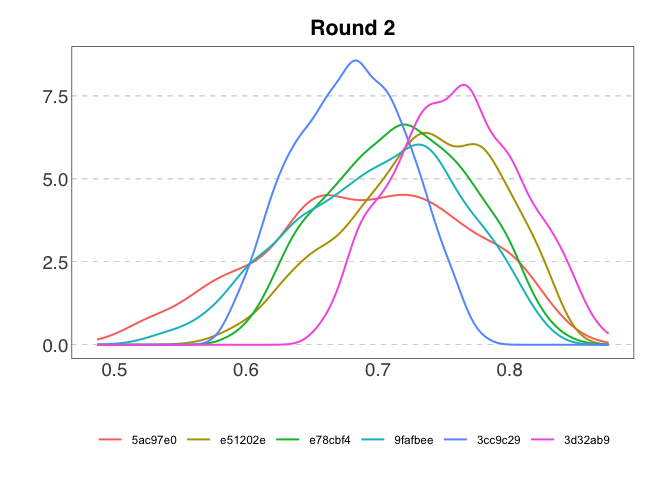
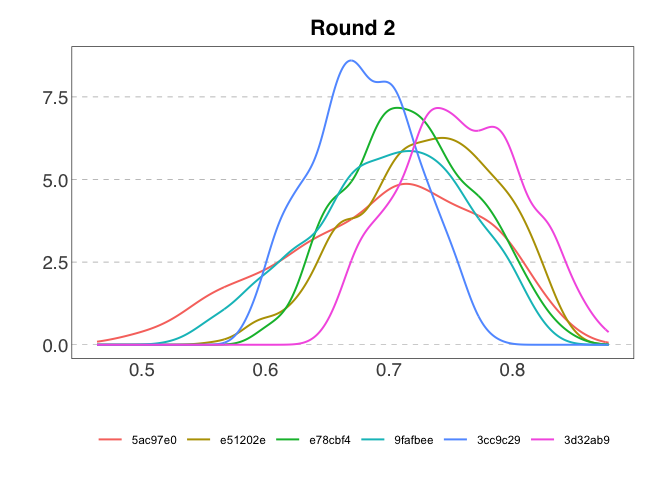
Update readme.

diff --git a/README.md b/README.md
@@ -213,8 +213,8 @@ summary(samp_cont)
 #>   Var      Min     Q1 Median   Mean     Q3    Max
 #>   <chr>  <dbl>  <dbl>  <dbl>  <dbl>  <dbl>  <dbl>
 #> 1 var1  -4     -2     -1     -1      1      1    
-#> 2 var2  11.0   14.4   16.3   16.3   18.4   22.7  
-#> 3 var3   0.487  0.669  0.716  0.713  0.760  0.875
+#> 2 var2  11.1   14.5   16.3   16.3   18.3   22.6  
+#> 3 var3   0.464  0.670  0.714  0.713  0.758  0.878
 ```
 
 And plotted as violin plots:
@@ -358,16 +358,16 @@ samp_cat_unweighted
 #> # A tibble: 2,400 × 7
 #>    id      option   category_1 category_2 category_3 category_4 category_5
 #>    <chr>   <chr>         <dbl>      <dbl>      <dbl>      <dbl>      <dbl>
-#>  1 5ac97e0 option_1      0.639      0.123    0.0105     0.0466       0.181
-#>  2 5ac97e0 option_1      0.588      0.197    0.0403     0.0326       0.142
-#>  3 5ac97e0 option_1      0.488      0.179    0.0354     0.0251       0.272
-#>  4 5ac97e0 option_1      0.542      0.203    0.00933    0.00597      0.240
-#>  5 5ac97e0 option_1      0.547      0.163    0.00709    0.0279       0.255
-#>  6 5ac97e0 option_1      0.566      0.175    0.0228     0.0369       0.200
-#>  7 5ac97e0 option_1      0.560      0.213    0.00577    0.00551      0.216
-#>  8 5ac97e0 option_1      0.587      0.152    0.0230     0.00935      0.229
-#>  9 5ac97e0 option_1      0.532      0.210    0.0249     0.00925      0.225
-#> 10 5ac97e0 option_1      0.538      0.164    0.0319     0.0209       0.245
+#>  1 5ac97e0 option_1      0.546      0.183    0.0233      0.0368      0.211
+#>  2 5ac97e0 option_1      0.668      0.137    0.0115      0.0177      0.166
+#>  3 5ac97e0 option_1      0.595      0.160    0.0298      0.0102      0.205
+#>  4 5ac97e0 option_1      0.503      0.277    0.00271     0.0124      0.205
+#>  5 5ac97e0 option_1      0.573      0.197    0.0110      0.0210      0.198
+#>  6 5ac97e0 option_1      0.491      0.214    0.0304      0.0619      0.202
+#>  7 5ac97e0 option_1      0.578      0.186    0.0104      0.0281      0.198
+#>  8 5ac97e0 option_1      0.590      0.164    0.0257      0.0100      0.210
+#>  9 5ac97e0 option_1      0.634      0.142    0.0244      0.0413      0.159
+#> 10 5ac97e0 option_1      0.591      0.213    0.0258      0.0222      0.147
 #> # ℹ 2,390 more rows
 
 samp_cat_weighted <- cat_sample_data(my_elic_cat,
@@ -378,16 +378,16 @@ samp_cat_weighted
 #> # A tibble: 1,800 × 7
 #>    id      option   category_1 category_2 category_3 category_4 category_5
 #>    <chr>   <chr>         <dbl>      <dbl>      <dbl>      <dbl>      <dbl>
-#>  1 5ac97e0 option_1     0.0836      0.489      0.181    0.0283       0.217
-#>  2 5ac97e0 option_1     0.124       0.468      0.186    0.0105       0.211
-#>  3 5ac97e0 option_1     0.0548      0.463      0.252    0.0112       0.219
-#>  4 5ac97e0 option_1     0.117       0.557      0.131    0.0268       0.169
-#>  5 5ac97e0 option_1     0.126       0.493      0.179    0.00635      0.196
-#>  6 5ac97e0 option_1     0.101       0.610      0.167    0.0144       0.108
-#>  7 5ac97e0 option_1     0.212       0.467      0.146    0.0117       0.164
-#>  8 5ac97e0 option_1     0.118       0.515      0.184    0.0104       0.172
-#>  9 5ac97e0 option_1     0.132       0.535      0.125    0.00304      0.206
-#> 10 5ac97e0 option_1     0.147       0.485      0.159    0.0103       0.198
+#>  1 5ac97e0 option_1     0.146       0.453      0.148    0.0617       0.191
+#>  2 5ac97e0 option_1     0.156       0.517      0.116    0.0188       0.192
+#>  3 5ac97e0 option_1     0.0678      0.622      0.105    0.00280      0.202
+#>  4 5ac97e0 option_1     0.177       0.548      0.122    0.0102       0.144
+#>  5 5ac97e0 option_1     0.0936      0.555      0.185    0.0295       0.137
+#>  6 5ac97e0 option_1     0.109       0.457      0.282    0.0176       0.134
+#>  7 5ac97e0 option_1     0.122       0.534      0.164    0.0193       0.161
+#>  8 5ac97e0 option_1     0.0991      0.595      0.131    0.00436      0.171
+#>  9 5ac97e0 option_1     0.149       0.446      0.179    0.00863      0.217
+#> 10 5ac97e0 option_1     0.0935      0.579      0.140    0.0478       0.139
 #> # ℹ 1,790 more rows
 ```
 
@@ -399,11 +399,11 @@ summary(samp_cat_unweighted, option = "option_2")
 #> # A tibble: 5 × 7
 #>   category       Min      Q1 Median   Mean     Q3   Max
 #>   <chr>        <dbl>   <dbl>  <dbl>  <dbl>  <dbl> <dbl>
-#> 1 category_1 0.00180 0.0328  0.0554 0.0658 0.0893 0.212
-#> 2 category_2 0.0121  0.0611  0.142  0.181  0.240  0.554
-#> 3 category_3 0.0149  0.0874  0.126  0.193  0.282  0.601
-#> 4 category_4 0       0.00642 0.0975 0.197  0.422  0.663
-#> 5 category_5 0.0302  0.259   0.329  0.364  0.443  0.808
+#> 1 category_1 0.00142 0.0270  0.0537 0.0637 0.0841 0.218
+#> 2 category_2 0.00585 0.0683  0.154  0.183  0.246  0.572
+#> 3 category_3 0.0216  0.0918  0.132  0.196  0.273  0.623
+#> 4 category_4 0       0.00691 0.104  0.196  0.413  0.651
+#> 5 category_5 0.0398  0.255   0.330  0.362  0.434  0.812
 ```
 
 And plotted as violin plots:
